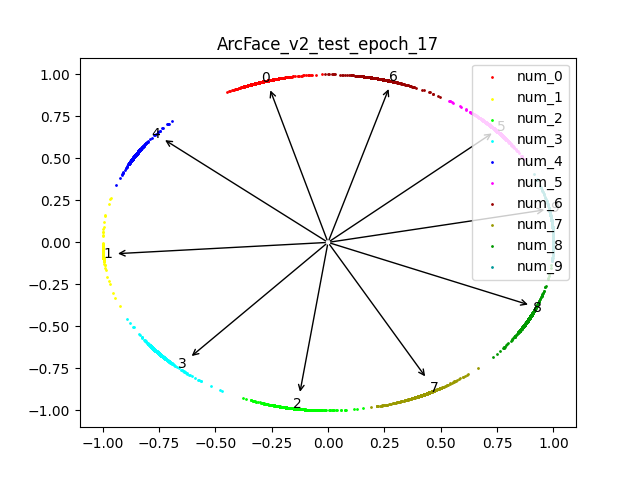
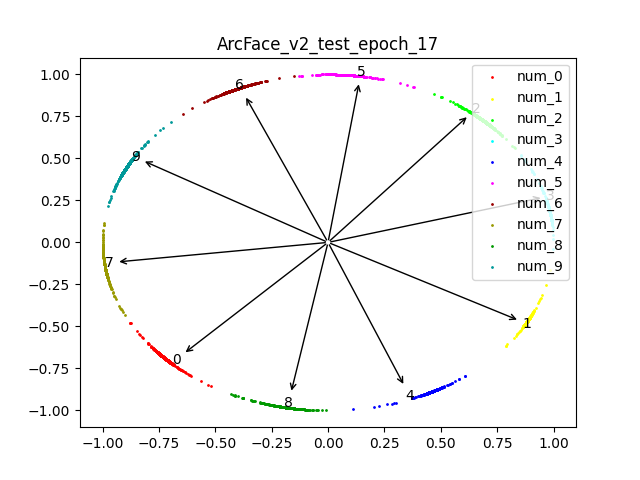
L softmax bug

diff --git a/models.py b/models.py
@@ -178,6 +178,7 @@ class AngleLinear(nn.Module):
             lambda x: 8*x**4-8*x**2+1,
             lambda x: 16*x**5-20*x**3+5*x
         ]
+        print("#",self.w_norm,self.x_norm)
 
     def forward(self, x, label=None):
         """module forward
@@ -217,8 +218,8 @@ class AngleLinear(nn.Module):
             one_hot.scatter_(1, label.view(-1, 1).long(), 1)
             output = (one_hot * phi) + ((1.0 - one_hot) * cosine)
             if not self.x_norm:
-                output *= x.pow(2).sum(1,keepdim=True).sqrt()
+                output = torch.mul(output, x.pow(2).sum(1,keepdim=True).sqrt())
             if not self.w_norm:
-                output *= self.weight.pow(2).sum(1,keepdim=True).sqrt()
+                output = torch.mul(output, self.weight.pow(2).sum(1,keepdim=False).sqrt().view(1,-1))
         output *= self.s
         return output

diff --git a/main.py b/main.py
@@ -58,6 +58,7 @@ def main():
     )
     # model
     loss_cnf = cnfs["loss"][args.lossname]
+    print(loss_cnf)
     if args.basemodel == 'LeNet_pp':
         encoder = LeNet_pp(out_features=args.visual_dimension)
     else:
@@ -66,8 +67,8 @@ def main():
     angleLinear = AngleLinear(
                                 in_features=args.visual_dimension, 
                                 out_features=cnfs["data"]["num_classes"],
-                                w_norm=loss_cnf["w_norm"],
-                                x_norm=loss_cnf["x_norm"],
+                                w_norm=loss_cnf["w_norm"]=="True",
+                                x_norm=loss_cnf["x_norm"]=="True",
                                 s=loss_cnf["s"],
                                 m1=loss_cnf["m1"],
                                 m2=loss_cnf["m2"],

diff --git a/README.md b/README.md
@@ -51,14 +51,14 @@ We use the SGD optimizer and train 20 epoches for each loss. The acc is below.
 
 | loss name    | test acc |
 | ---------    | ------ |
-| softmax      | 92.95 |
-| norm-softmax | 89.91 |
-| L-softmax_v1 | 63.50 |
-| A-softmax_v1 | 73.88 |
-| CosFace_v1   | 98.69 |
-| ArcFace_v1   | 98.50 |
-| ArcFace_v2   | 98.45 |
-| ArcFace_v3   | 76.60 |
+| softmax      | 98.88 |
+| norm-softmax | 96.25 |
+| L-softmax_v1 | 81.52 |
+| A-softmax_v1 | 86.53 |
+| CosFace_v1   | 98.44 |
+| ArcFace_v1   | 98.22 |
+| ArcFace_v2   | 98.52 |
+| ArcFace_v3   | 75.31 |
 
 > `Nan` means that I haven’t trained with similar results because the encode spatial dimension is too low.
 
@@ -67,11 +67,11 @@ We use the SGD optimizer and train 20 epoches for each loss. The acc is below.
 
 | loss name | test for best epoch |
 | - | - |
-| softmax | ![image](images/softmax_test_epoch_09.png) |
-| norm-softmax | ![image](images/norm-softmax_test_epoch_06.png) |
-| L-softmax_v1 | ![image](images/L-softmax_v1_test_epoch_02.png) |
-| A-softmax_v1 | ![image](images/A-softmax_v1_test_epoch_01.png) |
+| softmax | ![image](images/softmax_test_epoch_14.png) |
+| norm-softmax | ![image](images/norm-softmax_test_epoch_04.png) |
+| L-softmax_v1 | ![image](images/L-softmax_v1_test_epoch_09.png) |
+| A-softmax_v1 | ![image](images/A-softmax_v1_test_epoch_04.png) |
 | CosFace_v1   | ![image](images/CosFace_v1_test_epoch_19.png) |
-| ArcFace_v1   | ![image](images/ArcFace_v1_test_epoch_16.png) |
+| ArcFace_v1   | ![image](images/ArcFace_v1_test_epoch_17.png) |
 | ArcFace_v2   | ![image](images/ArcFace_v2_test_epoch_17.png) |
-| ArcFace_v3   | ![image](images/ArcFace_v3_test_epoch_04.png) |
+| ArcFace_v3   | ![image](images/ArcFace_v3_test_epoch_00.png) |
